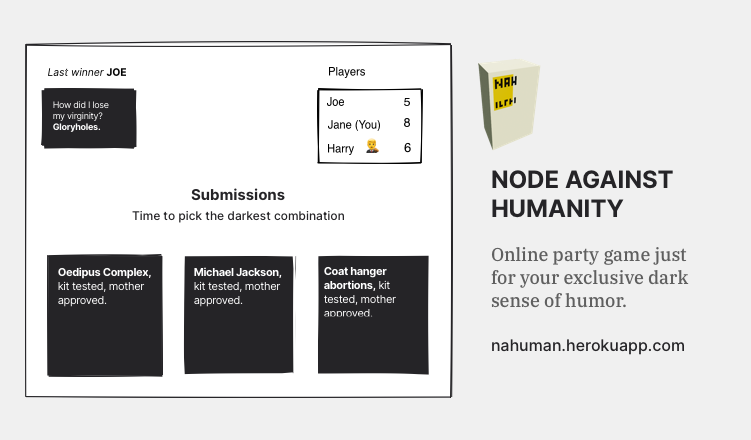
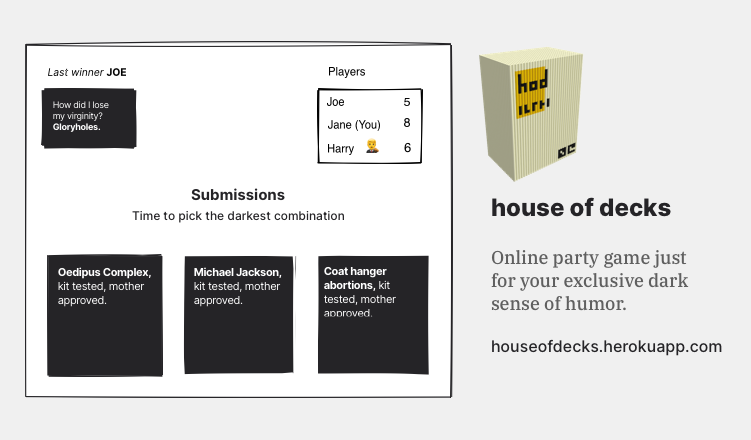
put changes

Changed region(s): [[0.6125, 0.0886, 0.9188, 0.5023], [0.6431, 0.5614, 0.9188, 0.7091], [0.6431, 0.7682, 0.98, 0.8273]]

diff --git a/client/public/index.html b/client/public/index.html
@@ -2,13 +2,17 @@
 <html lang="en">
   <head>
     <meta charset="utf-8" />
-    <link rel="icon" href="%PUBLIC_URL%/favicon.png" />
-    <link rel="apple-touch-icon" sizes="180x180" href="/apple-touch-icon.png">
-    <link rel="icon" type="image/png" sizes="32x32" href="%PUBLIC_URL%/favicon-32x32.png"/>
+    <link rel="apple-touch-icon" sizes="180x180" href="%PUBLIC_URL%/apple-touch-icon.png">
+    <link rel="icon" type="image/png" sizes="32x32" href="%PUBLIC_URL%/favicon-32x32.png">
+    <link rel="icon" type="image/png" sizes="16x16" href="%PUBLIC_URL%/favicon-16x16.png">
+    <link rel="manifest" href="%PUBLIC_URL%/site.webmanifest">
+    <link rel="mask-icon" href="%PUBLIC_URL%/safari-pinned-tab.svg" color="#5bbad5">
+    <meta name="msapplication-TileColor" content="#da532c">
+    <meta name="theme-color" content="#ffffff">
+    <link rel="icon" href="%PUBLIC_URL%/android-chrome-192x192.png" />
     <link href="https://fonts.googleapis.com/css2?family=Inter:wght@500;700&display=swap" rel="stylesheet">
     <link href="https://fonts.googleapis.com/css2?family=IBM+Plex+Serif:wght@500&display=swap" rel="stylesheet">
     <meta name="viewport" content="width=device-width, initial-scale=1, minimum-scale=1" />
-    <meta name="theme-color" content="#000000" />
     <meta
       name="description"
       content="Online party game just for your exclusive dark sense of humor."
@@ -20,7 +24,7 @@
     <meta name="twitter:title" content="It’s time to get be offended! 😎" />
     <meta name="twitter:description" content="Online party game just for your exclusive dark sense of humor." />
     <meta name="twitter:image" content="https://nahuman.herokuapp.com/twitter.png" />
-    <title>BIG DECK | It’s time to get be offended! 😎</title>
+    <title>house of decks | It’s time to get be offended! 😎</title>
   </head>
   <body>
     <noscript>You need to enable JavaScript to run this app.</noscript>

diff --git a/client/src/Components/Frame/index.js b/client/src/Components/Frame/index.js
@@ -101,7 +101,7 @@ const Body = ({ children }) => <div css={bodyStyle}>{children}</div>;
 const Header = () => (
   <header css={headerStyle}>
     <h1>
-      BIG DECK<span>BETA</span>
+      house of decks<span>BETA</span>
     </h1>
     <p css={heroText}>a party game for horrible people.</p>
   </header>

diff --git a/README.md b/README.md
@@ -1,8 +1,14 @@
-# BIG DECK
+# house of decks
 
-Made for fun! This is an online clone of [Cards Against Humanity](https://cardsagainsthumanity.com/).
+![houseofdecks cover](client/public/twitter.png "house of decks twitter cover")
 
-You can find [WIKI](https://www.notion.so/keremciu/Node-Against-Humanity-Wiki-647566a34f2045bcbd37960c9cb2fdbc) here.
+This is an online clone of [Cards Against Humanity](https://cardsagainsthumanity.com/) that you can find many different card decks to enjoy the time with your friends.
+
+Online video call recommended while playing this game.
+
+You can find [WIKI](https://www.notion.so/keremciu/house-of-decks-a688fc6e6d8e48bd98984f1bbcfe52fb) here.
+
+![houseofdecks logo](client/public/android-chrome-192x192.png "house of decks logo asset")
 
 ### Commands
 
@@ -17,10 +23,10 @@ You can find [WIKI](https://www.notion.so/keremciu/Node-Against-Humanity-Wiki-64
 If you play this game and like it; Please buy it on [Cards Against Humanity](https://cardsagainsthumanity.com/) website.
 Don't miss this chance to contribute their creativity.
 
-I used [this repository](https://github.com/crhallberg/json-against-humanity) to reach Cards.
+I used [this repository](https://github.com/crhallberg/json-against-humanity) to reach some cards.
 
 ### License
 
-This repository is just an online clone, just keep Cards Against Humanity license.
+This repository is just an online clone which follows Cards Against Humanity license.
 
 Cards Against Humanity is distributed under a Creative Commons Attribution-ShareAlike 4.0 International Public License.
